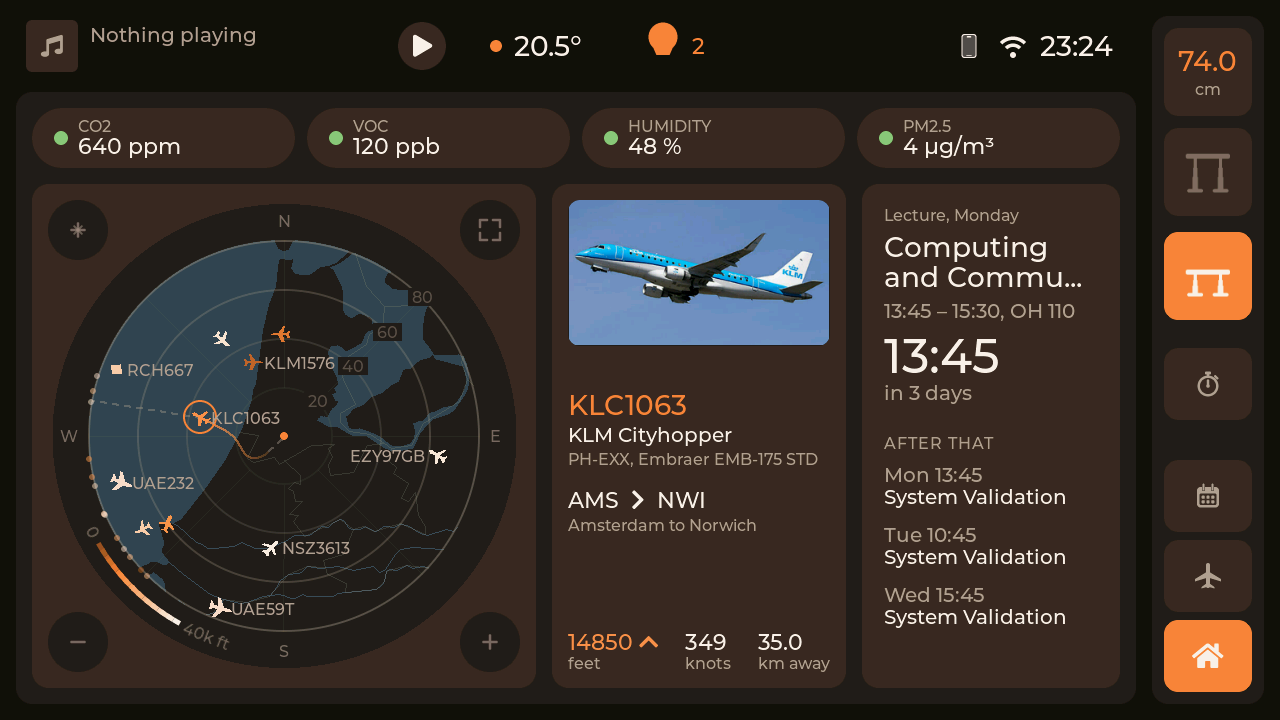
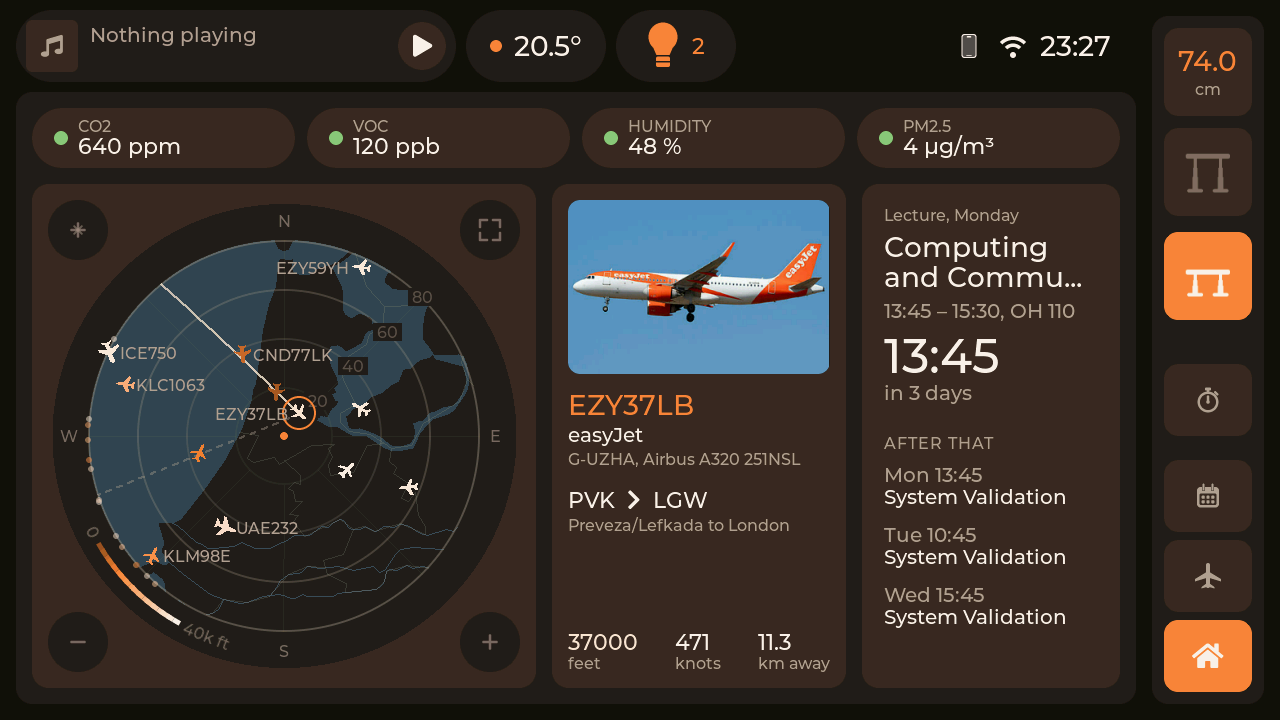
Make the radar page's map the page's own panel, to its rounded edge on the screen's black, where inside a lighter panel its corners showed dark; the timer over the pages' tabs rather than under the desk; the bar's slots back on their panel, and the lights drawn as the whole bulb; and the next event 

diff --git a/components/ui/control_bar.cpp b/components/ui/control_bar.cpp
@@ -59,12 +59,9 @@ lv_obj_t *make_slot(lv_obj_t *bar, std::int32_t w)
     lv_obj_set_style_pad_hor(slot, SLOT_PAD, 0);
     lv_obj_set_ext_click_area(slot, SLOT_TAP);
     lv_obj_set_scrollable(slot, false);
-    // Nothing behind it at rest, so the bar reads as what it says rather than
-    // as a row of buttons; a shape only while pressed, or while its card is out.
-    lv_obj_set_style_bg_opa(slot, LV_OPA_TRANSP, 0);
+    // Lighter while pressed, or while its card is out.
     for (const lv_state_t state : {LV_STATE_PRESSED, LV_STATE_CHECKED}) {
-        lv_obj_set_style_bg_color(slot, lv_color_hex(theme::panel), state);
-        lv_obj_set_style_bg_opa(slot, LV_OPA_COVER, state);
+        lv_obj_set_style_bg_color(slot, lv_color_hex(theme::panel_light), state);
     }
     return slot;
 }
@@ -586,7 +583,10 @@ void paint_lights_slot()
     // On in the accent, rather than the whole slot filled with it.
     theme::set_text(s_lights_text, text);
     theme::set_text_color(s_lights_text, lights.on ? theme::primary : theme::secondary);
-    lv_obj_set_style_image_recolor(s_lights_bulb, lv_color_hex(lights.on ? theme::primary : theme::secondary), 0);
+    for (std::uint32_t i = 0; i < lv_obj_get_child_count(s_lights_bulb); ++i) {
+        lv_obj_set_style_image_recolor(lv_obj_get_child(s_lights_bulb, static_cast<std::int32_t>(i)),
+                                       lv_color_hex(lights.on ? theme::primary : theme::secondary), 0);
+    }
 
     for (int i = 0; i < kLightCount; ++i) {
         lv_obj_t        *button = s_light_buttons[i];
@@ -627,10 +627,18 @@ void build_lights_slot(lv_obj_t *bar)
     lv_obj_set_style_pad_column(s_lights_slot, TEXT_GAP, 0);
     lv_obj_add_event_cb(s_lights_slot, lights_touched, LV_EVENT_CLICKED, nullptr);
     lv_obj_add_event_cb(s_lights_slot, lights_touched, LV_EVENT_LONG_PRESSED, nullptr);
-    s_lights_bulb = lv_image_create(s_lights_slot);
-    lv_image_set_src(s_lights_bulb, &icons::bulb_glass_icon);
-    lv_obj_set_style_image_recolor_opa(s_lights_bulb, LV_OPA_COVER, 0);
+    // The whole bulb, the glass over its base, as Home's lights were drawn.
+    s_lights_bulb = lv_obj_create(s_lights_slot);
+    lv_obj_remove_style_all(s_lights_bulb);
+    lv_obj_set_size(s_lights_bulb, icons::bulb_glass_icon.header.w, icons::bulb_glass_icon.header.h);
     lv_obj_set_clickable(s_lights_bulb, false);
+    for (const lv_image_dsc_t *part : {&icons::bulb_glass_icon, &icons::bulb_base_icon}) {
+        lv_obj_t *image = lv_image_create(s_lights_bulb);
+        lv_image_set_src(image, part);
+        lv_obj_set_pos(image, 0, 0);
+        lv_obj_set_style_image_recolor_opa(image, LV_OPA_COVER, 0);
+        lv_obj_set_clickable(image, false);
+    }
     s_lights_text = theme::make_label(s_lights_slot, "", theme::secondary, fonts::size_22());
     lv_obj_set_clickable(s_lights_text, false);
 }

diff --git a/components/ui/rail.cpp b/components/ui/rail.cpp
@@ -22,9 +22,8 @@ constexpr std::int32_t DOCK_PAD      = 12;
 constexpr std::int32_t DOCK_INNER_W  = DOCK_W - 2 * DOCK_PAD;  // Stand and Sit are as tall, square to the finger
 constexpr std::int32_t DOCK_GAP      = 12;
 constexpr std::int32_t DOCK_DESK_ICON = 46;
-// The timer under the desk, apart from it and from the pages under it.
-constexpr std::int32_t FOCUS_H = 72;
-constexpr std::int32_t FOCUS_Y = 3 * (DOCK_W - 2 * 12) + 2 * 12 + 32;
+constexpr std::int32_t FOCUS_H     = 72;
+constexpr std::int32_t FOCUS_APART = 16;  // from the tabs under it
 
 constexpr std::int32_t SHEET_PAD     = 28;
 constexpr std::int32_t SHEET_GAP     = 24;  // from the dock
@@ -249,12 +248,13 @@ void paint_focus_button()
     lv_obj_set_style_opa(s_focus_left, focus_paused(focus) ? LV_OPA_50 : LV_OPA_COVER, 0);
 }
 
-void build_focus_button(lv_obj_t *dock)
+// Over the pages' tabs, a little apart from them, being no page itself.
+void build_focus_button(lv_obj_t *tabs)
 {
-    s_focus_button = lv_button_create(dock);
+    s_focus_button = lv_button_create(tabs);
     theme::style_button(s_focus_button, theme::panel_light);
     lv_obj_set_size(s_focus_button, DOCK_INNER_W, FOCUS_H);
-    lv_obj_align(s_focus_button, LV_ALIGN_TOP_MID, 0, FOCUS_Y);
+    lv_obj_set_style_margin_bottom(s_focus_button, FOCUS_APART, 0);
     theme::fill_accent(s_focus_button, LV_STATE_CHECKED);
     // On the accent while its card is out, as the height is, the timer on it in the text's colour.
     lv_obj_add_event_cb(s_focus_button, [](lv_event_t *) {
@@ -360,6 +360,11 @@ lv_obj_t *dock_tabs()
     return s_tabs;
 }
 
+void dock_tabs_done()
+{
+    build_focus_button(s_tabs);  // last in a column that stands up from the foot, so on top
+}
+
 void create_dock(lv_obj_t *parent)
 {
     const Layout l = layout();
@@ -372,7 +377,6 @@ void create_dock(lv_obj_t *parent)
     lv_obj_set_scrollable(dock, false);
 
     build_dock_desk(dock);
-    build_focus_button(dock);
     s_tabs = lv_obj_create(dock);
     lv_obj_remove_style_all(s_tabs);
     lv_obj_set_size(s_tabs, DOCK_INNER_W, LV_SIZE_CONTENT);

diff --git a/components/ui/calendar_page.cpp b/components/ui/calendar_page.cpp
@@ -1,6 +1,7 @@
 #include "calendar_page.h"
 
 #include "ui_internal.h"
+#include "status_model.h"
 #include "topics.h"
 
 #include "fonts/units_font.h"
@@ -1918,7 +1919,12 @@ lv_obj_t *tile_line(lv_obj_t *parent, std::uint32_t ink, const lv_font_t *font, 
 
 void show_tile()
 {
-    if (s_tile == nullptr || detail::s_page != detail::HOME_PAGE) {
+    if (s_tile == nullptr) {
+        return;
+    }
+    // Away with the calendar's own page while the phone is.
+    lv_obj_set_hidden(s_tile, detail::s_presence_gate && !detail::status_state().present);
+    if (detail::s_page != detail::HOME_PAGE) {
         return;
     }
     static ical::Event ahead[TILE_AFTER + 1];
@@ -2041,6 +2047,7 @@ void build_next_tile(lv_obj_t *parent, std::int32_t x, std::int32_t y, std::int3
     }
     detail::subscribe(detail::Topic::Calendar, detail::kNoView, show_tile);
     detail::subscribe(detail::Topic::Page, detail::kNoView, show_tile);
+    detail::subscribe(detail::Topic::Status, detail::kNoView, show_tile);
     detail::subscribe(detail::Topic::Second, detail::kNoView, [] {
         if (std::time(nullptr) % TILE_REFRESH_S == 0) {
             show_tile();

diff --git a/components/ui/nav.cpp b/components/ui/nav.cpp
@@ -198,6 +198,7 @@ void create_content(lv_obj_t *parent)
         }
         s_pages[i] = make_page(area, l);
     }
+    dock_tabs_done();
 }
 
 bool build_next_page()
@@ -206,7 +207,12 @@ bool build_next_page()
     const Layout l   = layout();
     switch (next++) {
         case 0: build_home_page(s_pages[HOME_PAGE]); return true;
-        case 1: build_padded_page(RADAR_PAGE, build_radar_page, l); return true;
+        case 1:
+            // The map is the page's panel itself, to its rounded edge on the screen's black.
+            lv_obj_set_style_bg_opa(s_pages[RADAR_PAGE], LV_OPA_TRANSP, 0);
+            lv_obj_set_style_pad_all(s_pages[RADAR_PAGE], 0, 0);
+            build_radar_page(s_pages[RADAR_PAGE], l.content_w, l.content_h);
+            return true;
         case 2: build_padded_page(CALENDAR_PAGE, build_calendar_page, l); return true;
         case 3:
             build_settings_page(s_pages[SETUP_PAGE]);

diff --git a/components/ui/ui_internal.h b/components/ui/ui_internal.h
@@ -196,6 +196,7 @@ void place_notice();
 /** The dock: the tabs, Stand and Sit, the height that folds the desk out. */
 void create_dock(lv_obj_t *parent);
 lv_obj_t *dock_tabs();  // the column the tabs go in
+void dock_tabs_done();  // after the last tab, which the timer stands over
 /** The desk folded out beside the dock: its height, every preset, up and down. */
 void create_desk_sheet(lv_obj_t *parent);
 void open_desk_sheet(bool open);
